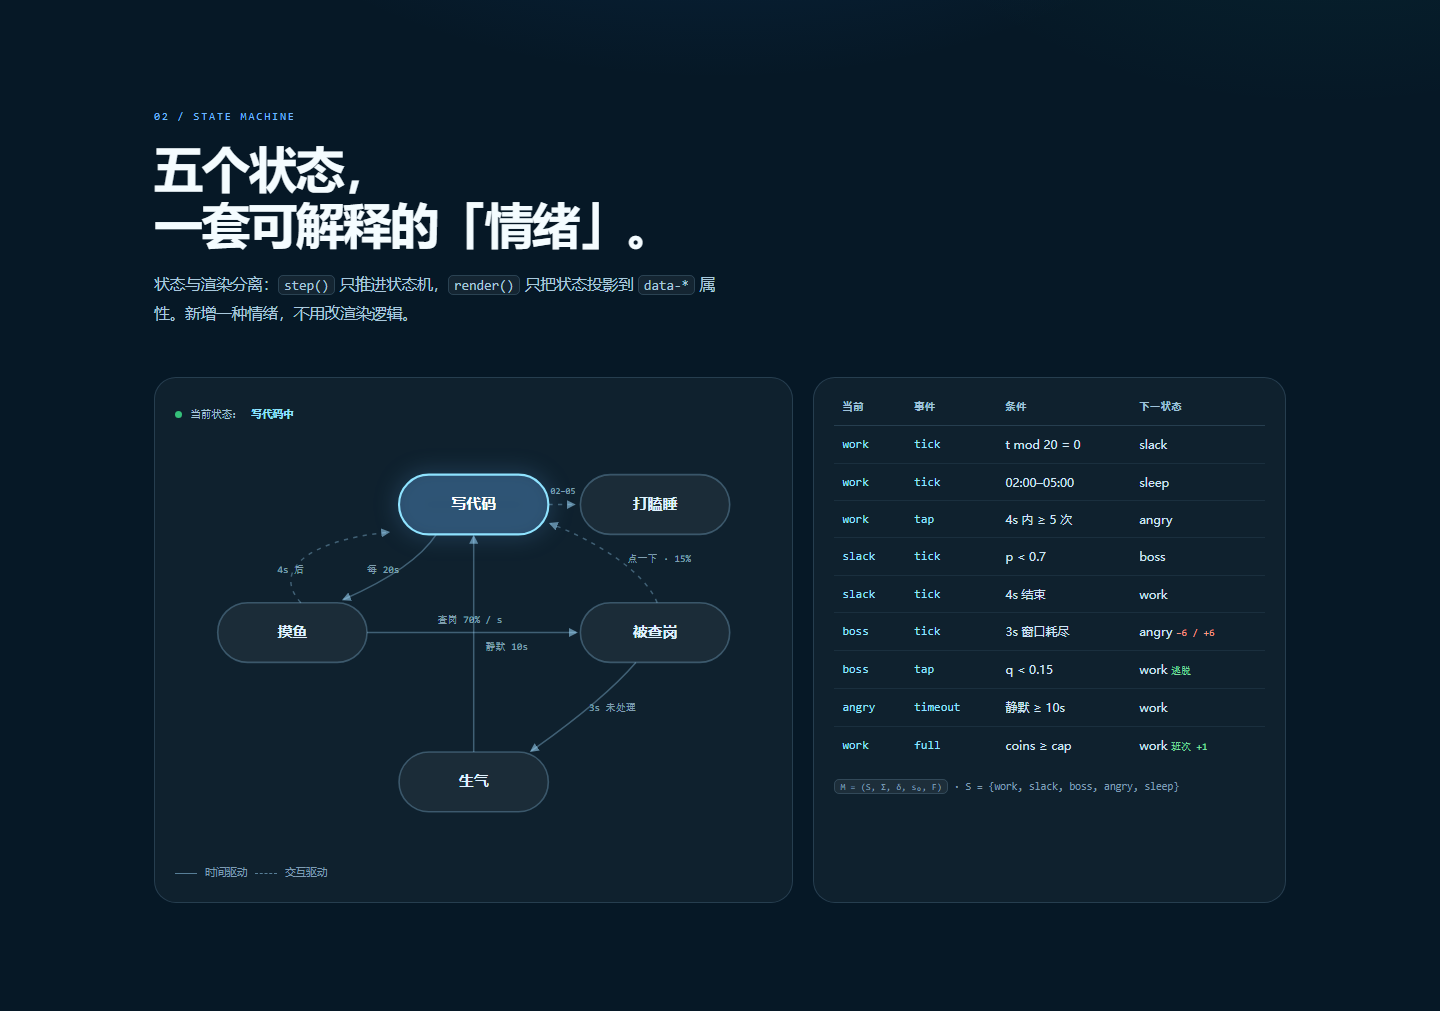
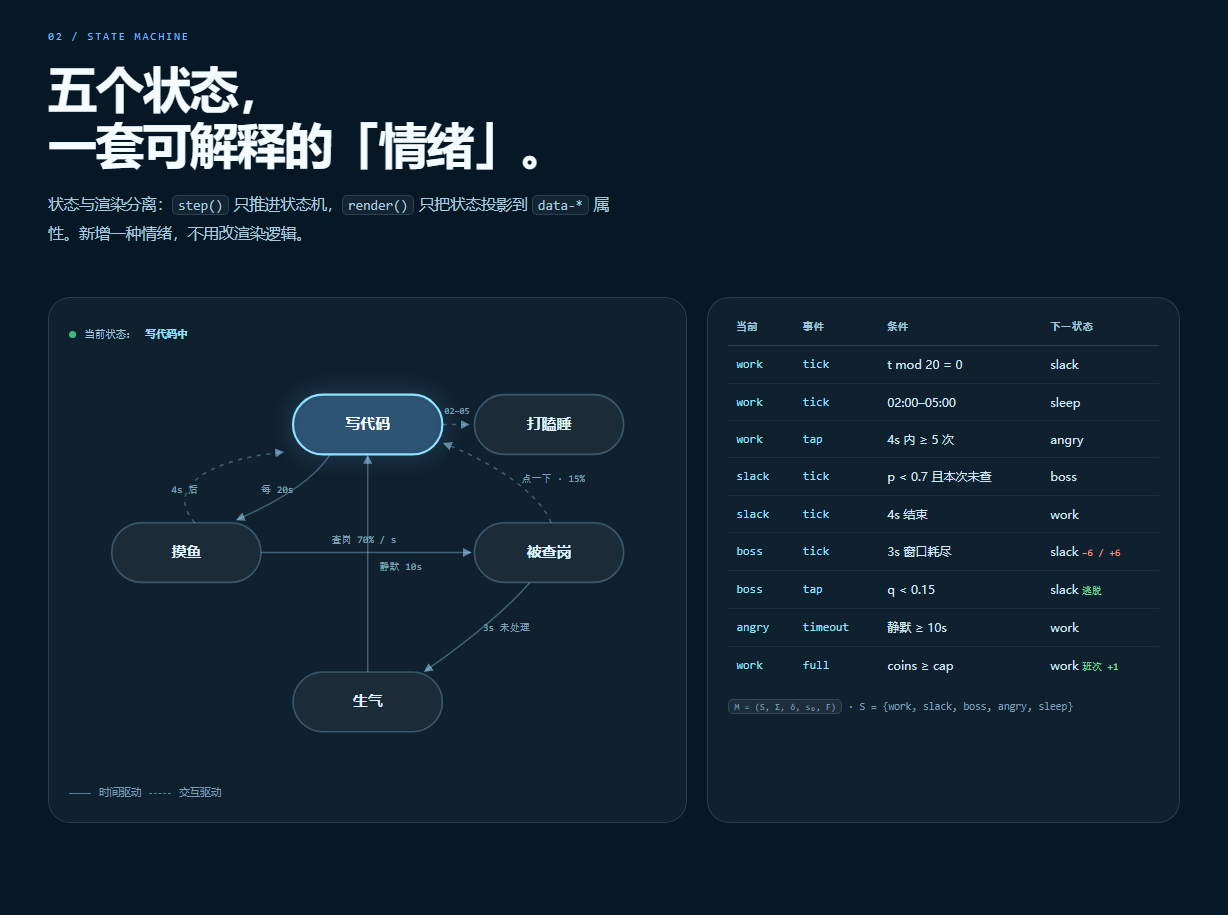
fix: 去掉气泡滚动条，并让查岗与连戳在窄屏照常可用
气泡尾巴探出盒子 8px，在 overflow-y:auto 下永远挂着一条用不上的滚动条；
窄屏 (<768px) 时控制台的两个遥控按钮被直接禁用，看起来像功能坏了。
同时修掉一次摸鱼里重复查岗的竞态——被抓后 data-boss 未复位，金币会二次扣减。

- whale-girl.css: 气泡补内边距吸收尾巴溢出，隐藏滚动条并保留滚动
- whale-girl.js: 新增 bossTap() 与 game.checked，打赏与点鱼身共用一次结算
- app.js: 窄屏不再禁用按钮，连戳改走卡片里的打赏入口
- 重拍 fsm.png，同步状态机表格、体积数字（gzip 15.0 KB）与资产指纹

diff --git a/web/index.html b/web/index.html
@@ -241,7 +241,7 @@
       <article class="tcard reveal" data-state="boss">
         <div class="tcard-top"><span class="tnum">03</span><span class="tstate">boss</span></div>
         <h3>龙虾娘查岗</h3>
-        <p>摸鱼时每秒 70% 概率被查岗，窗口只有 3 秒。点一下有 15% 概率溜掉，否则扣 6 个鱼币。</p>
+        <p>摸鱼时每秒都有 70% 的概率被撞见，但一次摸鱼最多查一回。窗口只有 3 秒，点一下有 15% 概率溜掉，否则扣 6 个鱼币。</p>
         <div class="tmeta">p = 0.7 · 3s 窗口</div>
       </article>
       <article class="tcard reveal" data-state="angry">
@@ -348,10 +348,10 @@
               <tr><td>work</td><td>tick</td><td>t mod 20 = 0</td><td>slack</td></tr>
               <tr><td>work</td><td>tick</td><td>02:00–05:00</td><td>sleep</td></tr>
               <tr><td>work</td><td>tap</td><td>4s 内 ≥ 5 次</td><td>angry</td></tr>
-              <tr><td>slack</td><td>tick</td><td>p &lt; 0.7</td><td>boss</td></tr>
+              <tr><td>slack</td><td>tick</td><td>p &lt; 0.7 且本次未查</td><td>boss</td></tr>
               <tr><td>slack</td><td>tick</td><td>4s 结束</td><td>work</td></tr>
-              <tr><td>boss</td><td>tick</td><td>3s 窗口耗尽</td><td>angry <span class="neg">−6 / +6</span></td></tr>
-              <tr><td>boss</td><td>tap</td><td>q &lt; 0.15</td><td>work <span class="pos">逃脱</span></td></tr>
+              <tr><td>boss</td><td>tick</td><td>3s 窗口耗尽</td><td>slack <span class="neg">−6 / +6</span></td></tr>
+              <tr><td>boss</td><td>tap</td><td>q &lt; 0.15</td><td>slack <span class="pos">逃脱</span></td></tr>
               <tr><td>angry</td><td>timeout</td><td>静默 ≥ 10s</td><td>work</td></tr>
               <tr><td>work</td><td>full</td><td>coins ≥ cap</td><td>work <span class="pos">班次 +1</span></td></tr>
             </tbody>
@@ -371,23 +371,23 @@
 
     <div class="weight-grid">
       <div class="weight-number reveal">
-        <div><span class="big">14.8</span><span class="unit">KB</span></div>
+        <div><span class="big">15.0</span><span class="unit">KB</span></div>
         <p>gzip 后的全部体积。比一张普通的 JPEG 配图还小，比主流 Live2D 方案低约两个数量级。</p>
         <p class="weight-source">参赛版按 gzip level 9 实测；原版线上数据见 <a href="https://github.com/JINRONG121312/whale-in-my-web/blob/main/docs/report.md" target="_blank" rel="noopener">docs/report.md</a></p>
       </div>
 
       <div class="weight-chart reveal">
-        <div class="size-row"><span class="size-name">挂件 JS（含鱼形）</span><div class="size-bar"><span style="--w:69%"></span></div><span class="size-num">10.2 KB</span></div>
-        <div class="size-row"><span class="size-name">挂件 CSS</span><div class="size-bar"><span style="--w:25%"></span></div><span class="size-num">3.7 KB</span></div>
+        <div class="size-row"><span class="size-name">挂件 JS（含鱼形）</span><div class="size-bar"><span style="--w:69%"></span></div><span class="size-num">10.4 KB</span></div>
+        <div class="size-row"><span class="size-name">挂件 CSS</span><div class="size-bar"><span style="--w:26%"></span></div><span class="size-num">3.8 KB</span></div>
         <div class="size-row"><span class="size-name">龙虾立绘</span><div class="size-bar"><span style="--w:5%"></span></div><span class="size-num">0.8 KB</span></div>
-        <div class="size-row size-row--total"><span class="size-name">合计</span><div class="size-bar"><span style="--w:100%"></span></div><span class="size-num">14.8 KB</span></div>
+        <div class="size-row size-row--total"><span class="size-name">合计</span><div class="size-bar"><span style="--w:100%"></span></div><span class="size-num">15.0 KB</span></div>
         <div class="size-row size-row--compare"><span class="size-name">Live2D</span><div class="size-bar size-bar--compare"><span style="--w:100%"></span></div><span class="size-num">1–3 MB</span></div>
-        <p class="chart-note">同一表现力下，体积降低约 69×–207×。动画只作用于 <code>transform</code> 与 <code>opacity</code>，不触发重排与重绘。</p>
+        <p class="chart-note">同一表现力下，体积降低约 68×–205×。动画只作用于 <code>transform</code> 与 <code>opacity</code>，不触发重排与重绘。</p>
       </div>
     </div>
 
     <div class="perf-grid">
-      <div class="perf-card reveal"><b>&lt; 40 ms</b><span>3 Mbps 下首屏增量</span></div>
+      <div class="perf-card reveal"><b>&lt; 42 ms</b><span>3 Mbps 下首屏增量</span></div>
       <div class="perf-card reveal"><b>&lt; 0.5 ms</b><span>单帧动画耗时</span></div>
       <div class="perf-card reveal"><b>≈ 0</b><span>空闲 CPU 占用</span></div>
     </div>
@@ -480,7 +480,7 @@
       </div>
       <div class="note-card reveal">
         <h3>手机端也有的小互动</h3>
-        <p>窄屏收成头像，点开卡片可以投喂，还能点「摸鱼呢？／夸夸你／老板来了」让她接一句——用的是同一套回复规则，不发一个请求。查岗与生气在手机端自动关闭。</p>
+        <p>窄屏收成头像，点开卡片可以投喂，还能点「摸鱼呢？／夸夸你／老板来了」让她接一句——用的是同一套回复规则，不发一个请求。查岗和连戳在窄屏照常生效，只是入口换成了卡片里的打赏按钮。</p>
       </div>
       <div class="note-card reveal">
         <h3>原创与许可</h3>

diff --git a/web/src/whale-girl.js b/web/src/whale-girl.js
@@ -186,7 +186,7 @@
     }
   }
 
-  // 窄屏（手机）只当看板娘：不打赏、不查岗
+  // 窄屏（手机）收成圆形头像：点鱼身只展开卡片，打赏与点词接话走卡片里的按钮
   function isCompact() {
     return !!(window.matchMedia && window.matchMedia('(max-width: 767px)').matches);
   }
@@ -202,6 +202,7 @@
       elapsed: 0,
       slackLeft: 0,
       bossActive: false,
+      checked: false,
       bossLeft: 0,
       angry: false,
       line: pick(LINES.work),
@@ -345,6 +346,20 @@
       flash('data-hit', 600);
     }
 
+    // 查岗时点她：赌 15% 溜掉，没溜掉就是被抓
+    function bossTap() {
+      if (Math.random() < ESCAPE_CHANCE) {
+        game.bossActive = false;
+        game.bossLeft = 0;
+        game.mood = 'happy';
+        say(pick(LINES.escape), ACTS.escape);
+      } else {
+        caught();
+        clearHold();
+      }
+      render();
+    }
+
     function nextShift() {
       game.coins = 0;
       writeNum(KEY_COINS, 0);
@@ -380,8 +395,9 @@
         if (game.bossActive) {
           game.bossLeft -= 1;
           if (game.bossLeft <= 0) caught();
-        } else if (!isCompact() && game.slackLeft > 1 && Math.random() < BOSS_CHANCE) {
+        } else if (!game.checked && game.slackLeft > 1 && Math.random() < BOSS_CHANCE) {
           game.bossActive = true;
+          game.checked = true;
           game.bossLeft = BOSS_LEN;
           game.line = pick(LINES.boss);
           game.act = ACTS.boss;
@@ -410,6 +426,7 @@
         game.phase = 'slack';
         game.slackLeft = SLACK_LEN;
         game.bossActive = false;
+        game.checked = false;
         game.mood = 'sly';
         game.line = pick(LINES.slack);
         game.act = ACTS.slack;
@@ -430,6 +447,18 @@
       if (DEEP_NIGHT) {
         say('别吵，睡着了', ACTS.sleep);
         render();
+        return;
+      }
+
+      // 连点打赏一样会急眼
+      if (isRapidClick()) {
+        becomeAngry();
+        return;
+      }
+
+      // 老板在场时递钱，先看她溜不溜得掉
+      if (game.bossActive) {
+        bossTap();
         return;
       }
 
@@ -482,16 +511,7 @@
       }
 
       if (game.bossActive) {
-        if (Math.random() < ESCAPE_CHANCE) {
-          game.bossActive = false;
-          game.bossLeft = 0;
-          game.mood = 'happy';
-          say(pick(LINES.escape), ACTS.escape);
-        } else {
-          caught();
-          clearHold();
-        }
-        render();
+        bossTap();
         return;
       }
 
@@ -544,10 +564,11 @@
 
     // 演示页专用：外部可召唤一次查岗；正式接入时不需要
     document.addEventListener('wg:boss', function () {
-      if (DEEP_NIGHT || isCompact() || game.angry) return;
+      if (DEEP_NIGHT || game.angry) return;
       game.phase = 'slack';
       game.slackLeft = Math.max(SLACK_LEN, 5);
       game.bossActive = true;
+      game.checked = true;
       game.bossLeft = 30;
       game.mood = 'sly';
       say(pick(LINES.boss), ACTS.boss);

diff --git a/web/app.js b/web/app.js
@@ -258,12 +258,13 @@
     btnBoss.addEventListener('click', function () {
       var node = widget();
       if (!node) { toast('她还在加载，稍等一下。'); return; }
-      if (isMobile()) { toast('查岗演示在手机端暂不启用。'); return; }
       if (widgetSleeping(node)) { toast('她睡着了，龙虾娘今天也下班了。'); return; }
       if (node.getAttribute('data-angry') === 'on') { toast('她还在气头上，先等她消气。'); return; }
 
       document.dispatchEvent(new CustomEvent('wg:boss'));
-      toast('龙虾娘来了。演示窗口 30 秒，点她试试 15% 的逃脱概率。');
+      toast(isMobile()
+        ? '龙虾娘来了。点开卡片点「打赏」，试试 15% 的逃脱概率。'
+        : '龙虾娘来了。演示窗口 30 秒，点她试试 15% 的逃脱概率。');
     });
   }
 
@@ -271,10 +272,16 @@
     btnAngry.addEventListener('click', function () {
       var node = widget();
       if (!node) { toast('她还在加载，稍等一下。'); return; }
-      if (isMobile()) { toast('连戳演示在手机端暂不启用。'); return; }
       if (widgetSleeping(node)) { toast('她睡着了，戳了也不理你。'); return; }
 
-      var pet = node.querySelector('.wg-pet');
+      // 窄屏点鱼身只会展开卡片，连戳走卡片里的打赏按钮
+      var compact = isMobile();
+      if (compact && node.getAttribute('data-open') !== 'on') {
+        var petBtn = node.querySelector('.wg-pet');
+        if (petBtn) petBtn.click();
+      }
+
+      var pet = node.querySelector(compact ? '.wg-tip' : '.wg-pet');
       if (!pet) return;
 
       var count = 0;
@@ -574,16 +581,16 @@
     if (btnFeed) btnFeed.textContent = mobile ? '展开卡片' : '投喂 +8';
 
     if (btnBoss) {
-      btnBoss.disabled = mobile;
-      btnBoss.title = mobile ? '手机端只当看板娘，不启用查岗' : '';
+      btnBoss.disabled = false;
+      btnBoss.title = mobile ? '窄屏也会查岗：被抓了点开卡片点打赏，试试溜掉' : '';
     }
     if (btnAngry) {
-      btnAngry.disabled = mobile;
-      btnAngry.title = mobile ? '手机端只当看板娘，不启用连戳' : '';
+      btnAngry.disabled = false;
+      btnAngry.title = mobile ? '窄屏会先展开卡片，再连点 5 次打赏' : '';
     }
     if (consoleNote && consoleNote.childNodes[0] && consoleNote.childNodes[0].nodeType === 3) {
       consoleNote.childNodes[0].nodeValue = mobile
-        ? '手机端她收成头像：点开卡片能投喂、能点词接话，查岗与生气不启用 · '
+        ? '手机端她收成头像：点开卡片能投喂、能点词接话，查岗与生气照常 · '
         : '遥控的是左下角的真身 · ';
     }
   }

diff --git a/web/src/whale-girl.css b/web/src/whale-girl.css
@@ -101,17 +101,23 @@ html[data-theme="dark"] .wg-body {
 .wg-say {
   position: absolute;
   left: 4px;
-  bottom: calc(100% + 2px);
+  bottom: calc(100% - 8px);
   width: min(288px, calc(100vw - 44px));
   max-height: min(46vh, 360px);
+  /* 气泡的尾巴探出盒子 8px，不给这段内边距就会永远挂着一条滚动条 */
+  padding-bottom: 10px;
   overflow-y: auto;
   overscroll-behavior: contain;
   -webkit-overflow-scrolling: touch;
-  scrollbar-width: thin;
+  scrollbar-width: none;
   display: flex;
   flex-direction: column;
   gap: 6px;
   pointer-events: none;
+}
+
+.wg-say::-webkit-scrollbar {
+  display: none;
 }
 
 .wg-say > * {
@@ -383,7 +389,7 @@ html[data-theme="dark"] .wg-act {
     left: 0;
     right: 0;
     width: min(74vw, 300px);
-    bottom: calc(100% + 4px);
+    bottom: calc(100% - 6px);
     max-height: 40vh;
   }
 

diff --git a/README.md b/README.md
@@ -5,9 +5,9 @@
 [![Live](https://img.shields.io/badge/live-on%20Qoder%20Sites-4b97dd?style=flat-square)](https://fat-fish-in-my-web-k9qghxjx4u5.qoder.website/)
 [![Stars](https://img.shields.io/github/stars/JINRONG121312/whale-girl-for-competitions?style=flat-square&color=4b97dd)](https://github.com/JINRONG121312/whale-girl-for-competitions/stargazers)
 [![License](https://img.shields.io/badge/license-PolyForm%20Noncommercial%201.0.0-ffb26b?style=flat-square)](LICENSE)
-[![Size](https://img.shields.io/badge/gzip-14.8%20KB-35c07a?style=flat-square)](#%E4%B8%BA%E4%BB%80%E4%B9%88%E6%98%AF-148-kb)
+[![Size](https://img.shields.io/badge/gzip-15.0%20KB-35c07a?style=flat-square)](#%E4%B8%BA%E4%BB%80%E4%B9%88%E6%98%AF-150-kb)
 [![Dependencies](https://img.shields.io/badge/dependencies-0-35c07a?style=flat-square)](#%E5%BF%AB%E9%80%9F%E6%8E%A5%E5%85%A5)
-[![Checks](https://img.shields.io/badge/browser%20checks-49%2F49-35c07a?style=flat-square)](docs/competition-post.md)
+[![Checks](https://img.shields.io/badge/browser%20checks-50%2F50-35c07a?style=flat-square)](docs/competition-post.md)
 
 > 一只住在网页左下角的 Q 版大肥鱼：会写代码、会摸鱼、会被龙虾娘查岗、会读你的弹幕。
 
@@ -56,14 +56,14 @@ COMMERCIAL.md            商业授权说明
 |---|---|
 | 状态机 | `work` → `slack`（每 20s，持续 4s）→ 可能被 `boss` 查岗；深夜 `sleep`；连点 `angry` |
 | 经济系统 | 打赏 +8，被抓 −6，但**上限 +6**（越被抓罐子越大）；攒满一罐直接换班 |
-| 互动分流 | 点鱼鳍 = 打赏并甩尾游开；点身体 = 摸摸，不进金币玩法 |
+| 互动分流 | 点鱼身 = 摸摸，+8 并甩尾游开；卡片里的「打赏 +8」是同一个罐子的第二个入口，窄屏也能用 |
 | 气泡锁 | 一句台词占住气泡 15 秒（`HOLD_MS`），后续消息排队不覆盖 |
 | 弹幕联动 | 监听 `wg:danmaku`，按关键词 + 昵称接话；`wg:boss` 可从外部召唤查岗 |
 | 拖动 | 拖到任意位置，`clampPos()` 钳在视口内，超过 62% 宽度时气泡自动翻转 |
 | 参数注入 | `window.WG_CONFIG` 或地址栏 `?slack=&boss=&penalty=&cap=` 直接改作息 |
-| 移动端 | 收成圆形头像，点一下展开小卡片，卡片里有「点词接话」快捷气泡 |
+| 移动端 | 收成圆形头像，点一下展开小卡片，卡片里有「点词接话」快捷气泡；查岗与生气照常，逃脱走打赏按钮 |
 | 暗色模式 | 跟随 `html[data-theme="dark"]` |
-| 体积 | gzip 后 **14.8 KB**，零运行时依赖，主角色内联在脚本里 |
+| 体积 | gzip 后 **15.0 KB**，零运行时依赖，主角色内联在脚本里 |
 
 ## 快速接入
 
@@ -118,7 +118,7 @@ var CAP_STEP = 6;         // 被抓后上限涨多少
 
 ## 验收
 
-本地起静态服务后，用 headless Edge 在 **1440×900** 和 **390×844** 两套视口跑交互检查：投喂、摸摸、查岗、逃脱、连戳生气、10 秒消气、气泡锁、弹幕回复、快捷词、主题持久化、参数应用、接入代码生成、手机端降级与展开、拖动钳边……**49 项全部通过，控制台无报错，无横向溢出**。
+本地起静态服务后，用 headless Edge 在 **1440×900** 和 **390×844** 两套视口跑交互检查：投喂、摸摸、查岗、逃脱、连戳生气、10 秒消气、气泡锁、弹幕回复、快捷词、主题持久化、参数应用、接入代码生成、窄屏收成头像与展开、窄屏查岗与连戳、拖动钳边与气泡翻转……**50 项全部通过，控制台无报错，无横向溢出，气泡容器不再出现滚动条**。
 
 ## 原创与资产
 
@@ -145,7 +145,7 @@ var CAP_STEP = 6;         // 被抓后上限涨多少
 
 思路和设计可以随便借鉴——**思想不受版权保护，欢迎你做一个更好的**。
 
-## 为什么是 14.8 KB
+## 为什么是 15.0 KB
 
 因为原来那个站点跑在 **2 核 2G、3 Mbps** 的云服务器上，公网峰值 375 KB/s——每多 100 KB，访客就多等 0.27 秒。
 
@@ -153,12 +153,12 @@ var CAP_STEP = 6;         // 被抓后上限涨多少
 
 | 文件 | gzip |
 |---|---|
-| `whale-girl.js`（状态机、渲染、交互、文案 + 内联鱼形 SVG） | 10,465 B |
-| `whale-girl.css`（主题、动效、响应式） | 3,832 B |
+| `whale-girl.js`（状态机、渲染、交互、文案 + 内联鱼形 SVG） | 10,618 B |
+| `whale-girl.css`（主题、动效、响应式） | 3,921 B |
 | `lobster.svg`（第二角色） | 815 B |
-| **合计** | **15,112 B ≈ 14.8 KB** |
+| **合计** | **15,354 B ≈ 15.0 KB** |
 
-对比主流 Live2D 看板娘（1–3 MB），是 **69×–207×** 的差距。推导过程与效度威胁见原版 [docs/report.md](docs/report.md)。
+对比主流 Live2D 看板娘（1–3 MB），是 **68×–205×** 的差距。推导过程与效度威胁见原版 [docs/report.md](docs/report.md)。
 
 ## 说明
 

diff --git a/docs/competition-post.md b/docs/competition-post.md
@@ -59,9 +59,9 @@
 
 1. **打开作品链接**（桌面浏览器体验最完整）。页面左下角就是她，右边是实时观测窗和遥控器。
 2. **点她一下**：摸摸她 +8 鱼币，她会甩尾游开；卡片里的「打赏 +8」是另一个入口，手机端也能用。**4 秒内连点 5 次**，她会生气，停手 10 秒后自己消气。
-3. **点“召唤龙虾娘”**：进入查岗演示，点她试试 15% 的逃脱概率；失败会扣 6 鱼币，但上限 +6。
+3. **点“召唤龙虾娘”**：进入查岗演示，点她试试 15% 的逃脱概率（窄屏时点开卡片点「打赏」也一样）；失败会扣 6 鱼币，但上限 +6。
 4. **在观测窗里发一条弹幕**，或者点“bug / 老板 / 摸鱼 / 夸夸”快捷词，看她按关键词接话——气泡会锁在这段对话上 15 秒。
-5. **拖动她换位置**；想换一套作息，就到“定制”里调四个参数并应用。手机端她收成圆头像，点一下展开卡片，可以投喂、可以点词接话，查岗与生气自动关闭。
+5. **拖动她换位置**；想换一套作息，就到“定制”里调四个参数并应用。手机端她收成圆头像，点一下展开卡片，可以投喂、可以点词接话；查岗和连戳也照常生效，只是入口换成了卡片里的「打赏」按钮。
 
 > 小提示：她攒满一罐会直接换班，没有“下班”；如果你在凌晨 2–5 点打开，她大概率已经睡着了。
 
@@ -125,12 +125,12 @@ document.addEventListener('wg:boss', function () {
 - 实时遥测：从挂件的 `data-*` 属性、状态文案和动作行里读出她在干什么，同步到观测窗、气泡和状态机高亮；
 - 弹幕：输入或点快捷词，真的派发 `wg:danmaku`，她真的会接，还会把气泡锁在这段对话上；
 - 定制：四个滑块实时生成 `window.WG_CONFIG` 和接入代码，应用后地址栏参数会跟着变；
-- 手机端：收成头像、点开卡片、投喂、点词接话，同时关掉查岗与连戳；
+- 手机端：收成头像、点开卡片、投喂、点词接话，查岗与连戳改走卡片里的打赏按钮；
 - 接入：一键复制两段代码，粘到任意静态页面就能用。
 
 ### 5. 在浏览器里逐项验收，再部署
 
-本地起静态服务后，我用无头浏览器以桌面 1440px 和手机 390px 两套视口跑了 **49 项交互检查**：打赏与摸摸是否分开、气泡两行文案、15 秒对话锁定与到期释放、查岗触发与一次拍抚结算、弹幕关键词回复、连戳生气与 10 秒消气、拖拽夹紧与气泡翻转、位置持久化、地址栏参数是否真的作用到挂件、手机端降级……49 项全部通过，两套视口都没有横向溢出，控制台无报错。
+本地起静态服务后，我用无头浏览器以桌面 1440px 和手机 390px 两套视口跑了 **50 项交互检查**：打赏与摸摸两个入口、气泡两行文案、气泡容器不再挂滚动条、15 秒对话锁定与到期释放、查岗触发与一次点击结算、一次摸鱼不重复查岗、弹幕关键词回复、连戳生气与 10 秒消气、拖拽夹紧与气泡翻转、位置持久化、地址栏参数是否真的作用到挂件、窄屏收成头像与展开卡片、窄屏的查岗与连戳……50 项全部通过，两套视口都没有横向溢出，控制台无报错。
 
 最后用 Qoder Sites 发布为公开站点，让评委打开链接就能直接体验。
 
@@ -150,7 +150,7 @@ document.addEventListener('wg:boss', function () {
 
 ![移动端：收起是一个圆头像，点开能投喂、能点词接话](https://fat-fish-in-my-web-k9qghxjx4u5.qoder.website/assets/shots/mobile.png)
 
-*04 · 移动端：收起只留一个圆头像，点一下展开小卡片——可以打赏，也可以点「摸鱼呢？／夸夸你／老板来了」让她接一句；查岗和连戳自动关闭。*
+*04 · 移动端：收起只留一个圆头像，点一下展开小卡片——可以打赏，也可以点「摸鱼呢？／夸夸你／老板来了」让她接一句；查岗和连戳照常生效，入口换成卡片里的打赏按钮。*
 
 ![Qoder 构建记录](https://fat-fish-in-my-web-k9qghxjx4u5.qoder.website/assets/shots/build.png)
 

diff --git a/assets/NOTICE.md b/assets/NOTICE.md
@@ -34,20 +34,21 @@
 
 | 文件 | 字节 | SHA-256 |
 |---|---|---|
[21 lines of base64/hex data omitted]
 
 `web/assets/social-preview.png` 同样写入 `Author` / `Copyright` / `Comment` 元数据；页面截图为展示站实拍，转载时请注明作者与仓库地址。
 
